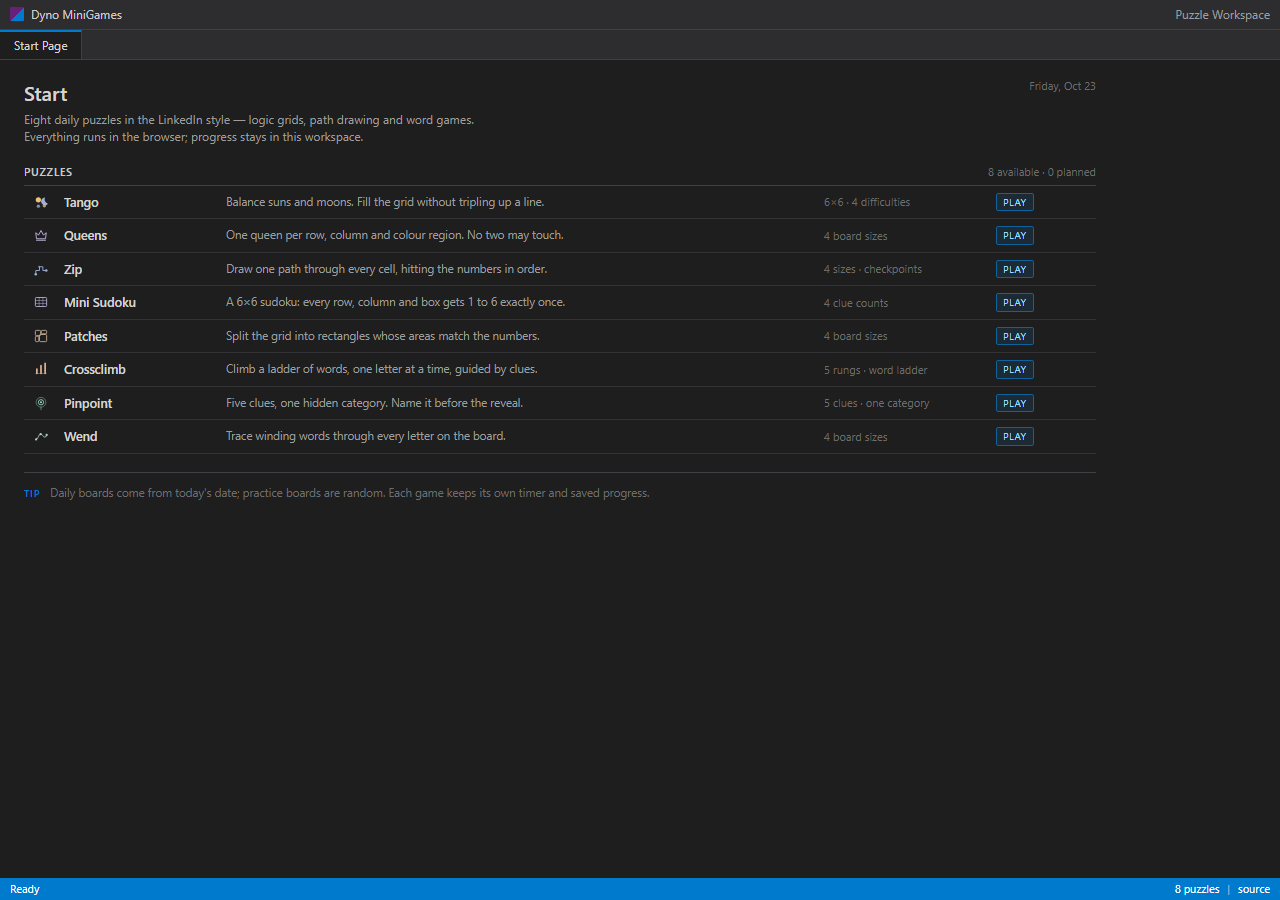
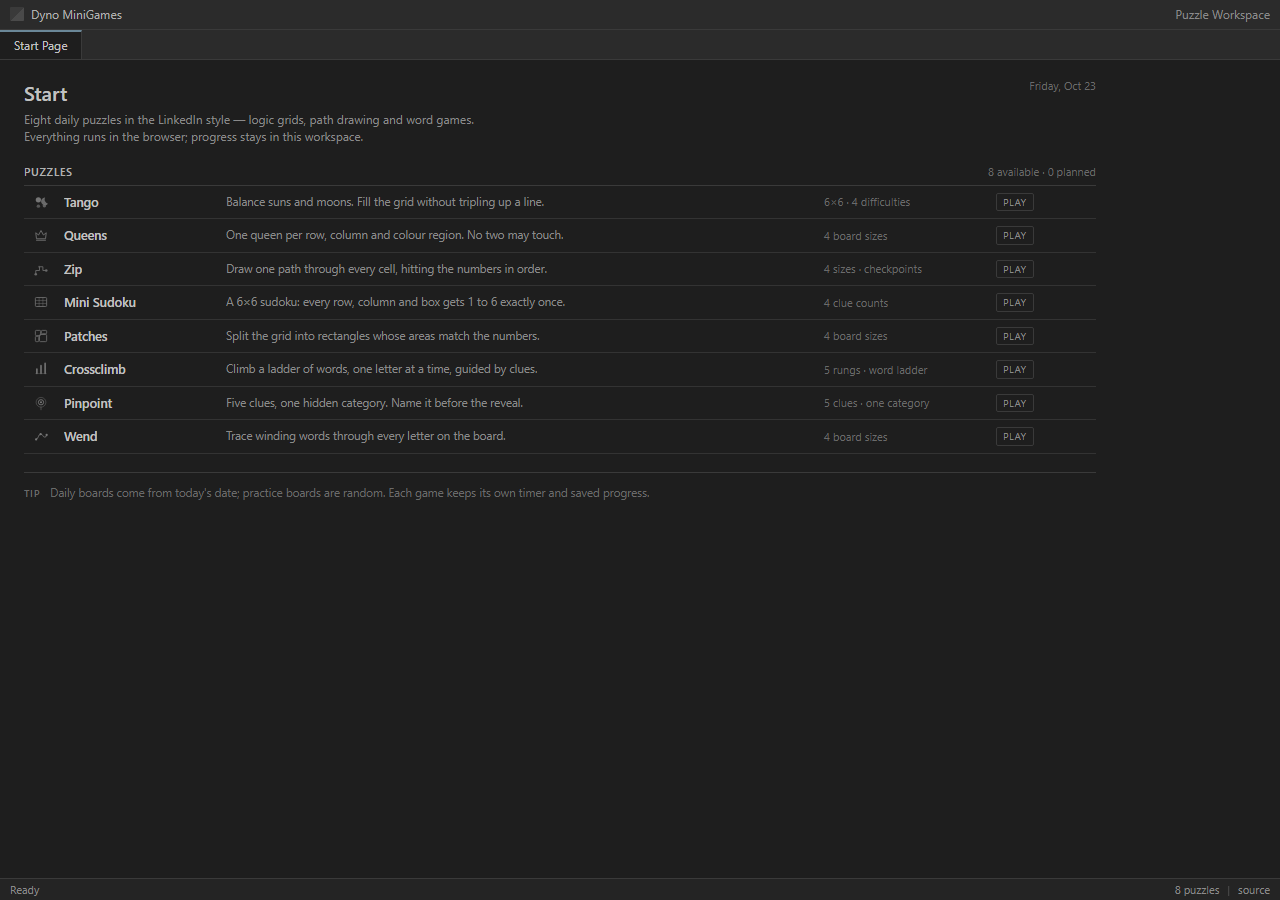
style: monochrome low-contrast palette
- drop the bright status bar and VS blue accents for neutral grays
- grayscale game icons and outlined tags on the start page
- Queens regions and Patches fills become near-gray tints
- muted sun/moon, path, wall and selection colors

Changed region(s): [[0.0, 0.9644, 1.0, 1.0], [0.7812, 0.2178, 0.8125, 0.4978], [0.0, 0.0, 0.0938, 0.0311]]

diff --git a/src/styles.css b/src/styles.css
@@ -6,26 +6,26 @@
 :root {
   color-scheme: dark;
   --bg: #1e1e1e;
-  --panel: #252526;
-  --chrome: #2d2d30;
-  --chrome-2: #333337;
-  --border: #3f3f46;
-  --border-soft: #333337;
-  --text: #d4d4d4;
-  --muted: #9d9d9d;
-  --soft: #6d6d6d;
-  --accent: #007acc;
-  --accent-2: #0e639c;
-  --accent-hover: #1177bb;
-  --selection: #264f78;
-  --hover: #2a2d2e;
-  --btn: #3c3c3c;
-  --btn-border: #555555;
-  --sun: #dcdcaa;
-  --moon: #9cdcfe;
-  --danger: #f48771;
-  --ok: #4ec9b0;
-  --warn: #cca700;
+  --panel: #242424;
+  --chrome: #2b2b2b;
+  --chrome-2: #313131;
+  --border: #3a3a3a;
+  --border-soft: #333333;
+  --text: #c2c2c2;
+  --muted: #8a8a8a;
+  --soft: #6a6a6a;
+  --accent: #5d7f94;
+  --accent-2: #3f5665;
+  --accent-hover: #4a6577;
+  --selection: #33414b;
+  --hover: #292929;
+  --btn: #2f2f2f;
+  --btn-border: #444444;
+  --sun: #cfc7ae;
+  --moon: #b6c6d0;
+  --danger: #c47a6a;
+  --ok: #8f9f94;
+  --warn: #b0a070;
   --mono: Consolas, "Cascadia Mono", "Courier New", monospace;
   --font: "Segoe UI", system-ui, -apple-system, "Segoe UI", Roboto, sans-serif;
 }
@@ -49,7 +49,7 @@ body {
 }
 
 a {
-  color: #3794ff;
+  color: #8fa3b0;
 }
 
 button {
@@ -88,13 +88,13 @@ button {
   align-items: center;
   gap: 7px;
   font-size: 12px;
-  color: #cccccc;
+  color: #b0b0b0;
 }
 
 .vs-brand-mark {
   width: 14px;
   height: 14px;
-  background: linear-gradient(135deg, #68217a 0 52%, #007acc 52% 100%);
+  background: linear-gradient(135deg, #3a3a3a 0 52%, #4a4a4a 52% 100%);
   border-radius: 1px;
 }
 
@@ -131,14 +131,14 @@ button {
 }
 
 .vs-tab:hover {
-  background: #3e3e42;
+  background: #353535;
   color: var(--text);
 }
 
 .vs-tab.is-active {
   background: var(--bg);
   color: var(--text);
-  border-top-color: var(--accent);
+  border-top-color: #6a8798;
 }
 
 .vs-tab-close {
@@ -151,8 +151,8 @@ button {
 }
 
 .vs-tab-close:hover {
-  background: #4a4a4f;
-  color: #fff;
+  background: #3a3a3a;
+  color: #ddd;
 }
 
 .vs-content {
@@ -170,8 +170,9 @@ button {
   justify-content: space-between;
   gap: 12px;
   padding: 0 10px;
-  background: var(--accent);
-  color: #fff;
+  background: var(--panel);
+  border-top: 1px solid var(--border);
+  color: var(--muted);
   font-size: 11px;
 }
 
@@ -186,7 +187,7 @@ button {
 }
 
 .vs-statusbar a {
-  color: #fff;
+  color: var(--muted);
   text-decoration: none;
 }
 
@@ -244,7 +245,7 @@ button {
   font-weight: 600;
   text-transform: uppercase;
   letter-spacing: 0.06em;
-  color: #c8c8c8;
+  color: #b0b0b0;
 }
 
 .start-section-head span {
@@ -287,7 +288,7 @@ button {
 .game-icon svg {
   width: 18px;
   height: 18px;
-  filter: saturate(0.6);
+  filter: grayscale(1) brightness(0.95) opacity(0.55);
 }
 
 .game-name {
@@ -323,9 +324,9 @@ button {
 }
 
 .tag.live {
-  color: var(--moon);
-  border-color: #0e639c;
-  background: rgba(14, 99, 156, 0.18);
+  color: var(--muted);
+  border-color: var(--border);
+  background: transparent;
 }
 
 .tag.soon {
@@ -344,7 +345,7 @@ button {
 }
 
 .start-hint-label {
-  color: var(--accent);
+  color: var(--soft);
   font-weight: 600;
   text-transform: uppercase;
   letter-spacing: 0.06em;
@@ -447,7 +448,7 @@ button {
   font-weight: 600;
   text-transform: uppercase;
   letter-spacing: 0.06em;
-  color: #c8c8c8;
+  color: #b0b0b0;
 }
 
 .panel-head {
@@ -466,7 +467,7 @@ button {
 .progress {
   height: 4px;
   margin: 3px 0 10px;
-  background: #3f3f46;
+  background: #3a3a3a;
   overflow: hidden;
 }
 
@@ -555,7 +556,7 @@ button {
   padding: 0;
   border: 0;
   background: none;
-  color: #3794ff;
+  color: #8fa3b0;
   font-size: 11.5px;
   cursor: pointer;
 }
@@ -586,7 +587,7 @@ button {
 }
 
 .btn:hover {
-  background: #4a4a4f;
+  background: #3a3a3a;
 }
 
 .btn:focus-visible {
@@ -902,7 +903,7 @@ button {
 .tango-cell.is-conflict {
   background: rgba(244, 135, 113, 0.14);
   border-color: var(--danger);
-  color: #f48771;
+  color: var(--danger);
 }
 
 .tango-rel {
@@ -929,7 +930,7 @@ button {
 }
 
 .tango-rel.diff {
-  color: #ce9178;
+  color: #b08a72;
 }
 
 .tango-rel.rel-right {
@@ -976,16 +977,16 @@ button {
 }
 
 .queens-cell.edge-t {
-  border-top: 1px solid #6d6d6d;
+  border-top: 1px solid #666666;
 }
 .queens-cell.edge-l {
-  border-left: 1px solid #6d6d6d;
+  border-left: 1px solid #666666;
 }
 .queens-cell.edge-r {
-  border-right: 1px solid #6d6d6d;
+  border-right: 1px solid #666666;
 }
 .queens-cell.edge-b {
-  border-bottom: 1px solid #6d6d6d;
+  border-bottom: 1px solid #666666;
 }
 
 .queens-cell.is-conflict {
@@ -1068,7 +1069,7 @@ button {
 .zip-wall {
   position: absolute;
   display: block;
-  background: #6d6d6d;
+  background: #555555;
 }
 
 .zip-numbers {
@@ -1132,11 +1133,11 @@ button {
 }
 
 .sudoku-cell.box-r {
-  border-right: 1px solid #6d6d6d;
+  border-right: 1px solid #666666;
 }
 
 .sudoku-cell.box-b {
-  border-bottom: 1px solid #6d6d6d;
+  border-bottom: 1px solid #666666;
 }
 
 .sudoku-cell.is-given {
@@ -1188,7 +1189,7 @@ button {
 }
 
 .sudoku-key:hover {
-  background: #4a4a4f;
+  background: #3a3a3a;
 }
 
 .sudoku-key.is-done {
@@ -1245,7 +1246,7 @@ button {
 .patch {
   position: absolute;
   box-sizing: border-box;
-  border: 1px solid #9d9d9d;
+  border: 1px solid #6a6a6a;
 }
 
 .patch-preview {
@@ -1416,7 +1417,7 @@ button {
 }
 
 .climb-row.is-given {
-  background: #202020;
+  background: #222222;
 }
 
 .climb-row.is-correct {
@@ -1476,7 +1477,7 @@ button {
 }
 
 .climb-input::placeholder {
-  color: #4a4a4a;
+  color: #444444;
 }
 
 .climb-input:focus {
@@ -1597,7 +1598,7 @@ button {
 }
 
 .modal-card.is-win {
-  border-color: #0e639c;
+  border-color: #444444;
 }
 
 .modal-glow {

diff --git a/src/games/patches/PatchesGame.tsx b/src/games/patches/PatchesGame.tsx
@@ -27,15 +27,15 @@ type Mode = "daily" | "practice";
 const DAILY_DIFFICULTY: Difficulty = "medium";
 
 const PATCH_FILLS = [
-  "rgba(143, 161, 184, 0.24)",
-  "rgba(200, 164, 92, 0.22)",
-  "rgba(126, 200, 176, 0.19)",
-  "rgba(178, 143, 184, 0.23)",
-  "rgba(143, 184, 200, 0.22)",
-  "rgba(200, 143, 122, 0.20)",
-  "rgba(150, 170, 130, 0.21)",
-  "rgba(170, 150, 200, 0.21)",
-  "rgba(120, 160, 200, 0.22)",
+  "rgba(255, 255, 255, 0.05)",
+  "rgba(255, 255, 255, 0.08)",
+  "rgba(255, 255, 255, 0.04)",
+  "rgba(255, 255, 255, 0.07)",
+  "rgba(255, 255, 255, 0.055)",
+  "rgba(255, 255, 255, 0.09)",
+  "rgba(255, 255, 255, 0.045)",
+  "rgba(255, 255, 255, 0.075)",
+  "rgba(255, 255, 255, 0.06)",
 ];
 
 interface SavedPatches {

diff --git a/src/games/queens/QueensGame.tsx b/src/games/queens/QueensGame.tsx
@@ -31,15 +31,15 @@ type Tool = "queen" | "mark";
 const DAILY_DIFFICULTY: Difficulty = "hard";
 
 const REGION_FILLS = [
-  "hsl(212, 16%, 24%)",
-  "hsl(36, 18%, 24%)",
-  "hsl(158, 14%, 23%)",
-  "hsl(292, 13%, 25%)",
-  "hsl(196, 12%, 26%)",
-  "hsl(48, 17%, 23%)",
-  "hsl(8, 16%, 25%)",
-  "hsl(232, 14%, 25%)",
-  "hsl(120, 12%, 24%)",
+  "hsl(210, 7%, 23%)",
+  "hsl(35, 7%, 24%)",
+  "hsl(160, 6%, 23%)",
+  "hsl(290, 6%, 24%)",
+  "hsl(200, 5%, 26%)",
+  "hsl(45, 7%, 23%)",
+  "hsl(10, 6%, 25%)",
+  "hsl(230, 6%, 25%)",
+  "hsl(120, 5%, 24%)",
 ];
 
 const REGION_HUES = [212, 36, 158, 292, 196, 48, 8, 232, 120];
